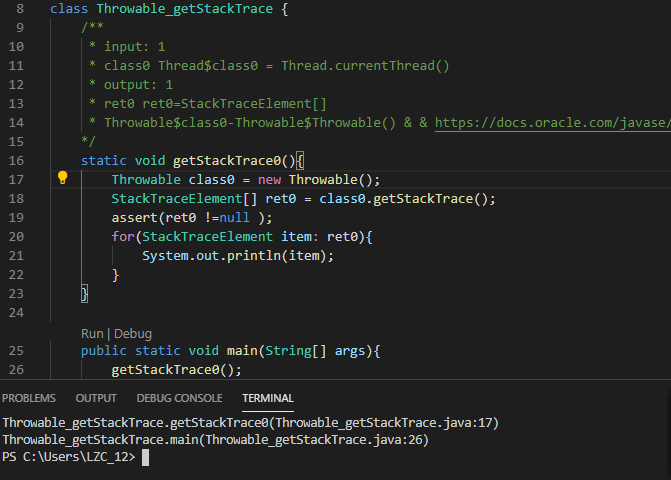
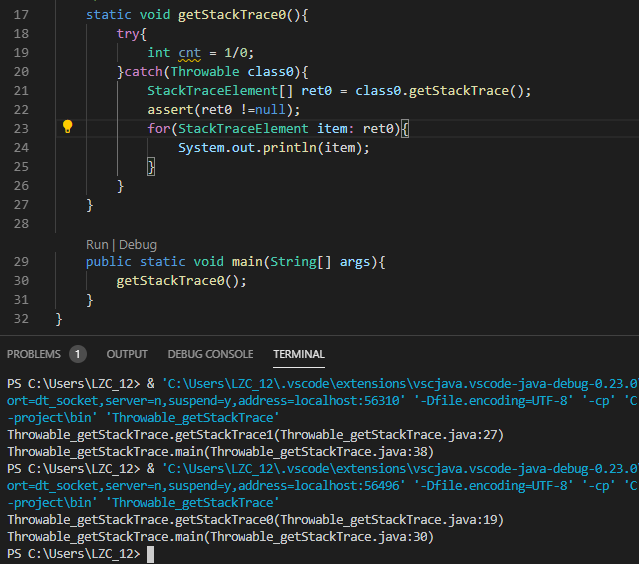
repair

Changed region(s): [[0.0, 0.0, 1.0, 1.0]]

diff --git a/MF1933053/swift/NSString_compare_String_NSString$CompareOptions.swift b/MF1933053/swift/NSString_compare_String_NSString$CompareOptions.swift
@@ -9,14 +9,15 @@ import Foundation
 class NSString_compare_String_NSString$CompareOptions{
     /**
     * input: 2
-    * class0 class0:NSString="NJU"
+    * class0 NSString$class0
     * str str="NJU"
     * output: 1
-    * ret0 ret0=ComparisonResult(rawValue: -1)
+    * ret0 ComparisonResult$ret0
+	* NSString$class0-NSString$NSString(string: String) & string = "NJU" & https://developer.apple.com/documentation/foundation/nsstring
     */
     static func compare0(){
         print(">>>>>>>>>>>>>>")
-        let class0:NSString = "NJU"
+        let class0 = NSString(string:"NJU")
         var str = "NJU"
         var ret0 = class0.compare(str,options:NSString.CompareOptions(rawValue: 1))
         assert(ret0 != ComparisonResult(rawValue: -1))
@@ -25,14 +26,15 @@ class NSString_compare_String_NSString$CompareOptions{
 
     /**
     * input: 2
-    * class1 class1:NSString="NJU"
+    * class1 NSString$class1
     * str str="nju"
     * output: 1
-    * ret1 ret1=ComparisonResult(rawValue: -1)
+    * ret1 ComparisonResult$ret1
+	* NSString$class1-NSString$NSString(string: String) & string = "NJU" & https://developer.apple.com/documentation/foundation/nsstring
     */
     static func compare1(){
         print(">>>>>>>>>>>>>>>")
-        let class1:NSString = "NJU"
+        let class1 = NSString(string:"NJU")
         var str = "nju"
         var ret1 = class1.compare(str,options:NSString.CompareOptions(rawValue: 1))
         assert(ret1 != ComparisonResult(rawValue: -1))

diff --git a/MF1933053/swift/FileManager_url_FileManager$SearchPathDirectory_FileManager$SearchPathDomainMask_URL_Bool.swift b/MF1933053/swift/FileManager_url_FileManager$SearchPathDirectory_FileManager$SearchPathDomainMask_URL_Bool.swift
@@ -13,7 +13,7 @@ class FileManager_FileManager$SearchPathDirectory_FileManager$SearchPathDomainMa
      * shouldCreate shouldCreate = true
 	 * url URL$url
      * output: 1
-     * ret0 ret0 = URL
+     * ret0 URL$ret0
 	 * FileManager$class0- FileManager.default & & https://developer.apple.com/documentation/foundation/filemanager/1407693-url;
 	 * URL$url-URL(string) & string = "." & https://developer.apple.com/documentation/foundation/filemanager/1407693-url
     */

diff --git a/MF1933053/java/Throwable_getStackTrace.java b/MF1933053/java/Throwable_getStackTrace.java
@@ -7,18 +7,22 @@
  */
 class Throwable_getStackTrace {
     /**
-     * input: 1
-     * class0 Throwable$class0
+     * input: 2
+     * temp temp = 1/0
+     * class0 Throwable$class0 
      * output: 1
      * ret0 StackTraceElement$ret0
      * Throwable$class0-Throwable$Throwable() & & https://docs.oracle.com/javase/8/docs/api/
     */
     static void getStackTrace0(){
-		Throwable class0 = new Throwable();
-        StackTraceElement[] ret0 = class0.getStackTrace();
-        assert(ret0 !=null);
-        for(StackTraceElement item: ret0){
-            System.out.println(item);
+	    try{
+		    int cnt = 1/0;
+	    }catch(Throwable class0){
+            StackTraceElement[] ret0 = class0.getStackTrace();
+		    assert(ret0 !=null);
+            for(StackTraceElement item: ret0){
+                System.out.println(item);
+            }
         }
     }
 

diff --git a/MF1933053/java/String_contentEquals_StringBuffer.java b/MF1933053/java/String_contentEquals_StringBuffer.java
@@ -11,7 +11,7 @@ public class String_contentEquals_StringBuffer{
     /**
      * input: 2
      * class0 class0="NJU"
-     * sb StringBuffer$class0
+     * sb StringBuffer$sb
      * output: 1
      * ret0 ret0 = true
      * StringBuffer$sb-StringBuffer$StringBuffer(String str) & str="NJU" & https://docs.oracle.com/javase/8/docs/api/
